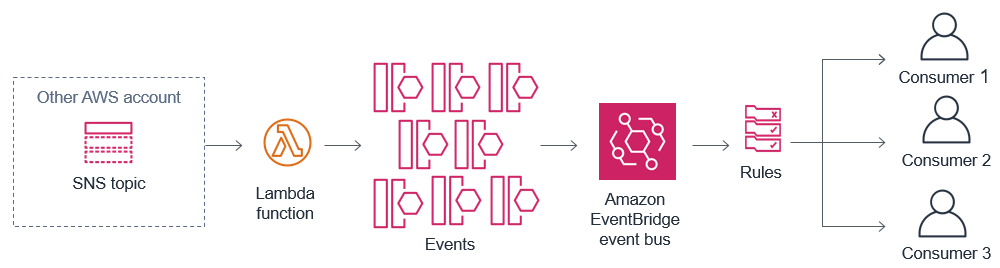
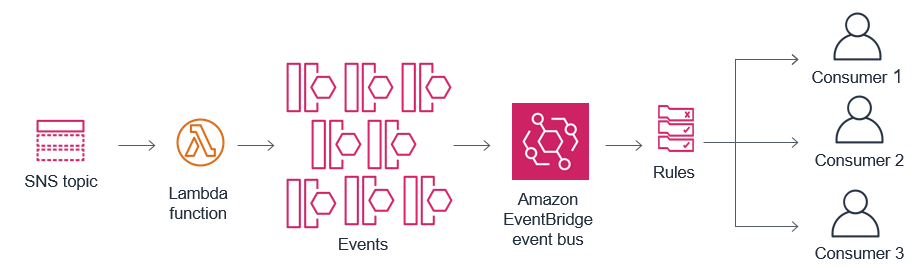
Image updates

diff --git a/6-eventbridge/README.md b/6-eventbridge/README.md
@@ -2,7 +2,7 @@
 
 ## Overview
 
-The Flow & Traffic Controller system provides the web app with ride times via an SNS topic in another AWS account. 
+The Flow & Traffic Controller system provides the web app with ride times via an SNS topic. 
 
 Now the guests know about wait times and outages, but the park's maintenance staff don't know when ride systems are down. They would like notifications when problems occur. Since you have deployed the previous app already, we want to address this new requirement without making any changes to the existing infrastructure.
 
@@ -25,7 +25,7 @@ You are going to connect the SNS topic with the ride data to Amazon EventBridge,
 
 ![Module 6 architecture](../images/module6-overview-arch.png)
 
-* The *Flow & Traffic Controller* exists in a separate AWS account owned by the theme park. You are provided with the SNS topic ARN to use.
+* The *Flow & Traffic Controller* is a separate system in the park. You are provided with the SNS topic ARN to use.
 * The Lambda function receive new messages from the SNS topic. It parses this message and sends events to the EventBridge event bus.
 * EventBridge receives these events and uses rules to decide where they should be routed.
 * Events are routed to any number of downstream consumers, which are completely decoupled from the event producers.
